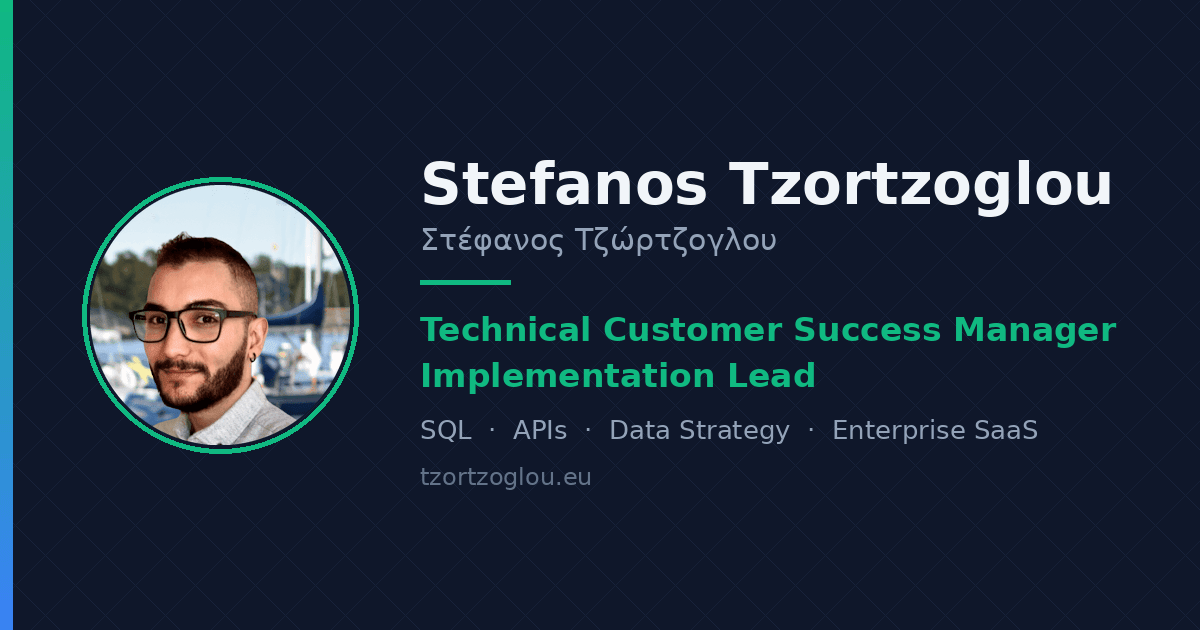
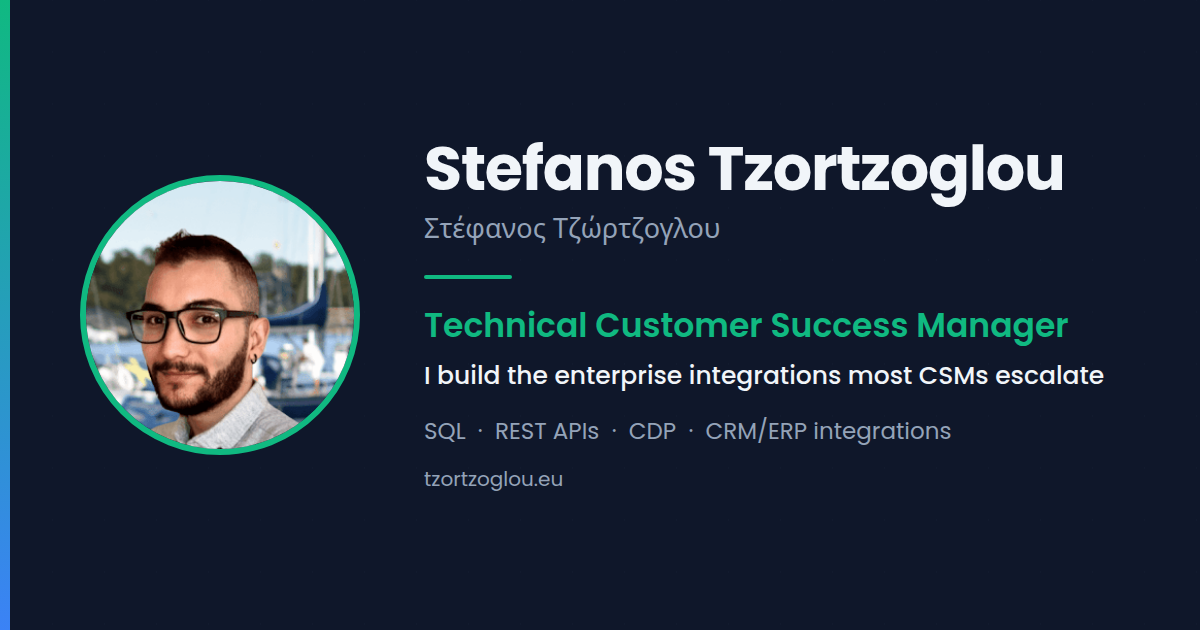
feat: the identity cards are generated from text now, because pixels cannot be grepped
og-cover.png said "Implementation Lead". So did the GitHub banner and the LinkedIn one. On
2026-09-19 that title was removed from ten source files and verified with a grep that returned
nothing, which was true and not the same as correct: the words were inside three images, and
the GitHub one hid them twice over by URL-encoding the text into a capsule-render query string.

The og:image:alt was rewritten the same day to drop the title, so for two days the alt text and
the image it described disagreed. They agree again now, because both come from the same file.

_data/identity.js holds the words. `npm run cards` renders three shapes from one template that
uses the site's own dark tokens and self-hosted Poppins, so a shared link looks like the page it
opens. Headless Chrome from the Puppeteer cache — Chrome is a Flatpak here and playwright cannot
find it — so no new dependency.

Only og-cover.png is committed, because only the site serves it. LinkedIn has no profile-write
API for personal accounts and the GitHub banner belongs in the steftzor/steftzor repo, so those
two are exports and dist-cards/ is ignored.

The renderer reads each PNG header back and fails if the dimensions are not exactly what was
asked for. A screenshot at the wrong size looks like success in a terminal, and the LinkedIn
banner it replaces was 2000x1090 against a required 4:1 — unusable, because no 4:1 crop of it
contained both its headline and its subject.
[…]

diff --git a/scripts/cards/card.html b/scripts/cards/card.html
@@ -1,0 +1,81 @@
+<!doctype html>
+<meta charset="utf-8">
+<!--
+  One template, three shapes. Rendered by scripts/cards/render.mjs with headless Chrome; the
+  text comes from _data/identity.js and never lives in this file.
+
+  Tokens are the site's dark-theme values verbatim (src/input.css): a shared link should look
+  like the page it opens.
+-->
+<style>
+  @font-face { font-family: Poppins; font-weight: 400; src: url(../../fonts/poppins-400-latin.woff2) format('woff2'); }
+  @font-face { font-family: Poppins; font-weight: 500; src: url(../../fonts/poppins-500-latin.woff2) format('woff2'); }
+  @font-face { font-family: Poppins; font-weight: 600; src: url(../../fonts/poppins-600-latin.woff2) format('woff2'); }
+  @font-face { font-family: Poppins; font-weight: 700; src: url(../../fonts/poppins-700-latin.woff2) format('woff2'); }
+
+  :root {
+    --bg: #0f172a;        /* brand-bg, dark */
+    --text: #f1f5f9;      /* brand-text, 16.3:1 on bg */
+    --muted: #94a3b8;     /* brand-muted, 6.96:1 on bg */
+    --accent: #10b981;    /* brand-accent, 7.04:1 on bg */
+    --blue: #3b82f6;
+  }
+  * { margin: 0; padding: 0; box-sizing: border-box; }
+  body { font-family: Poppins, system-ui, sans-serif; background: var(--bg); color: var(--text); }
+
+  .card { position: relative; overflow: hidden; background: var(--bg); display: flex; align-items: center; }
+  /* The faint lattice from the existing og-cover, rebuilt as CSS so it scales with the shape. */
+  .card::before {
+    content: ''; position: absolute; inset: 0; opacity: .5;
+    background-image:
+      linear-gradient(115deg, rgba(148,163,184,.055) 1px, transparent 1px),
+      linear-gradient(65deg,  rgba(148,163,184,.055) 1px, transparent 1px);
+    background-size: 52px 52px;
+  }
+  /* The accent edge, top-left to bottom-left, emerald into blue. */
+  .card::after {
+    content: ''; position: absolute; left: 0; top: 0; bottom: 0; width: 10px;
+    background: linear-gradient(180deg, var(--accent), var(--blue));
+  }
+  .inner { position: relative; z-index: 1; display: flex; align-items: center; width: 100%; }
+
+  .photo { border-radius: 50%; object-fit: cover; border: 6px solid var(--accent); flex-shrink: 0; }
+  .name { font-weight: 700; letter-spacing: -.02em; line-height: 1.05; }
+  .name-el { font-weight: 300; color: var(--muted); }
+  .rule { height: 4px; width: 88px; background: var(--accent); border-radius: 2px; }
+  .role { font-weight: 600; color: var(--accent); line-height: 1.25; }
+  .claim { font-weight: 500; color: var(--text); line-height: 1.3; }
+  .stack { color: var(--muted); }
+  .url { color: var(--muted); }
+
+  /* --- og-cover: 1200x630. The only one with the photo; nothing else shows it beside the card. */
+  .og { width: 1200px; height: 630px; }
+  .og .inner { gap: 64px; padding: 0 80px; }
+  .og .photo { width: 280px; height: 280px; }
+  .og .name { font-size: 62px; }
+  .og .name-el { font-size: 27px; margin-top: 8px; }
+  .og .rule { margin: 26px 0; }
+  .og .role { font-size: 33px; }
+  .og .claim { font-size: 25px; margin-top: 14px; }
+  .og .stack { font-size: 23px; margin-top: 22px; }
+  .og .url { font-size: 20px; margin-top: 16px; }
+
+  /* --- LinkedIn: 1584x396. No photo: the profile avatar already sits over this banner, and it
+         covers the lower left, so everything is pushed right of it. */
+  .li { width: 1584px; height: 396px; }
+  .li .inner { padding: 0 96px 0 620px; flex-direction: column; align-items: flex-start; justify-content: center; }
+  .li .name { font-size: 58px; }
+  .li .rule { margin: 20px 0; }
+  .li .role { font-size: 29px; }
+  .li .claim { font-size: 23px; margin-top: 12px; }
+  .li .stack { font-size: 20px; margin-top: 18px; }
+
+  /* --- GitHub: 1000x280. No photo either; the avatar is beside it on the profile. Centred,
+         the way the capsule-render banner it replaces was. */
+  .gh { width: 1000px; height: 280px; }
+  .gh .inner { flex-direction: column; align-items: center; justify-content: center; text-align: center; }
+  .gh .name { font-size: 56px; color: var(--accent); }
+  .gh .subtitle { font-size: 21px; color: var(--text); margin-top: 16px; font-weight: 400; }
+  .gh .stack { font-size: 17px; margin-top: 14px; }
+</style>
+<body><div id="card"></div></body>

diff --git a/_data/identity.js b/_data/identity.js
@@ -1,0 +1,38 @@
+'use strict';
+
+/**
+ * The identity strings, in one place, because they used to live inside PNGs.
+ *
+ * Three images carried this text as pixels: `images/og-cover.png` (every social share of the
+ * site), the LinkedIn banner, and the GitHub profile banner. On 2026-09-19 "Implementation
+ * Lead" was removed from ten source files and verified with a grep that returned nothing. It
+ * was still in all three images, because no grep reads a PNG, and the GitHub one hid it a
+ * second time by URL-encoding it inside a capsule-render query string.
+ *
+ * So the text lives here and the images are built from it (`npm run cards`). A copy change is
+ * one edit and one command, and `checks/surfaces.mjs` in the portfolio skill can assert against
+ * a text file instead of trying to read pixels.
+ *
+ * Keep these in step with `references/job-search.md`, which is canonical for the wording itself.
+ */
+
+module.exports = {
+  name: 'Stefanos Tzortzoglou',
+  nameEl: 'Στέφανος Τζώρτζογλου',
+  url: 'tzortzoglou.eu',
+
+  /** The role, as a title rather than a claim. */
+  title: 'Technical Customer Success Manager',
+
+  /** job-search.md §2 headline [4]. The same sentence leads the site and the GitHub README. */
+  anchor: 'I build the enterprise integrations most CSMs escalate',
+
+  /** The GitHub banner subtitle. Measured at 579px of 1000 — see the JOURNAL for why not longer. */
+  githubSubtitle: 'Technical CSM | SQL, REST APIs, CDP & CRM/ERP integrations',
+
+  /** Dot-separated on the cards. Short enough to read at a glance on a shared link. */
+  stack: ['SQL', 'REST APIs', 'CDP', 'CRM/ERP integrations'],
+
+  /** Where the work happens. Kept out of the GitHub banner, which is tight for width. */
+  place: 'Stockholm',
+};
